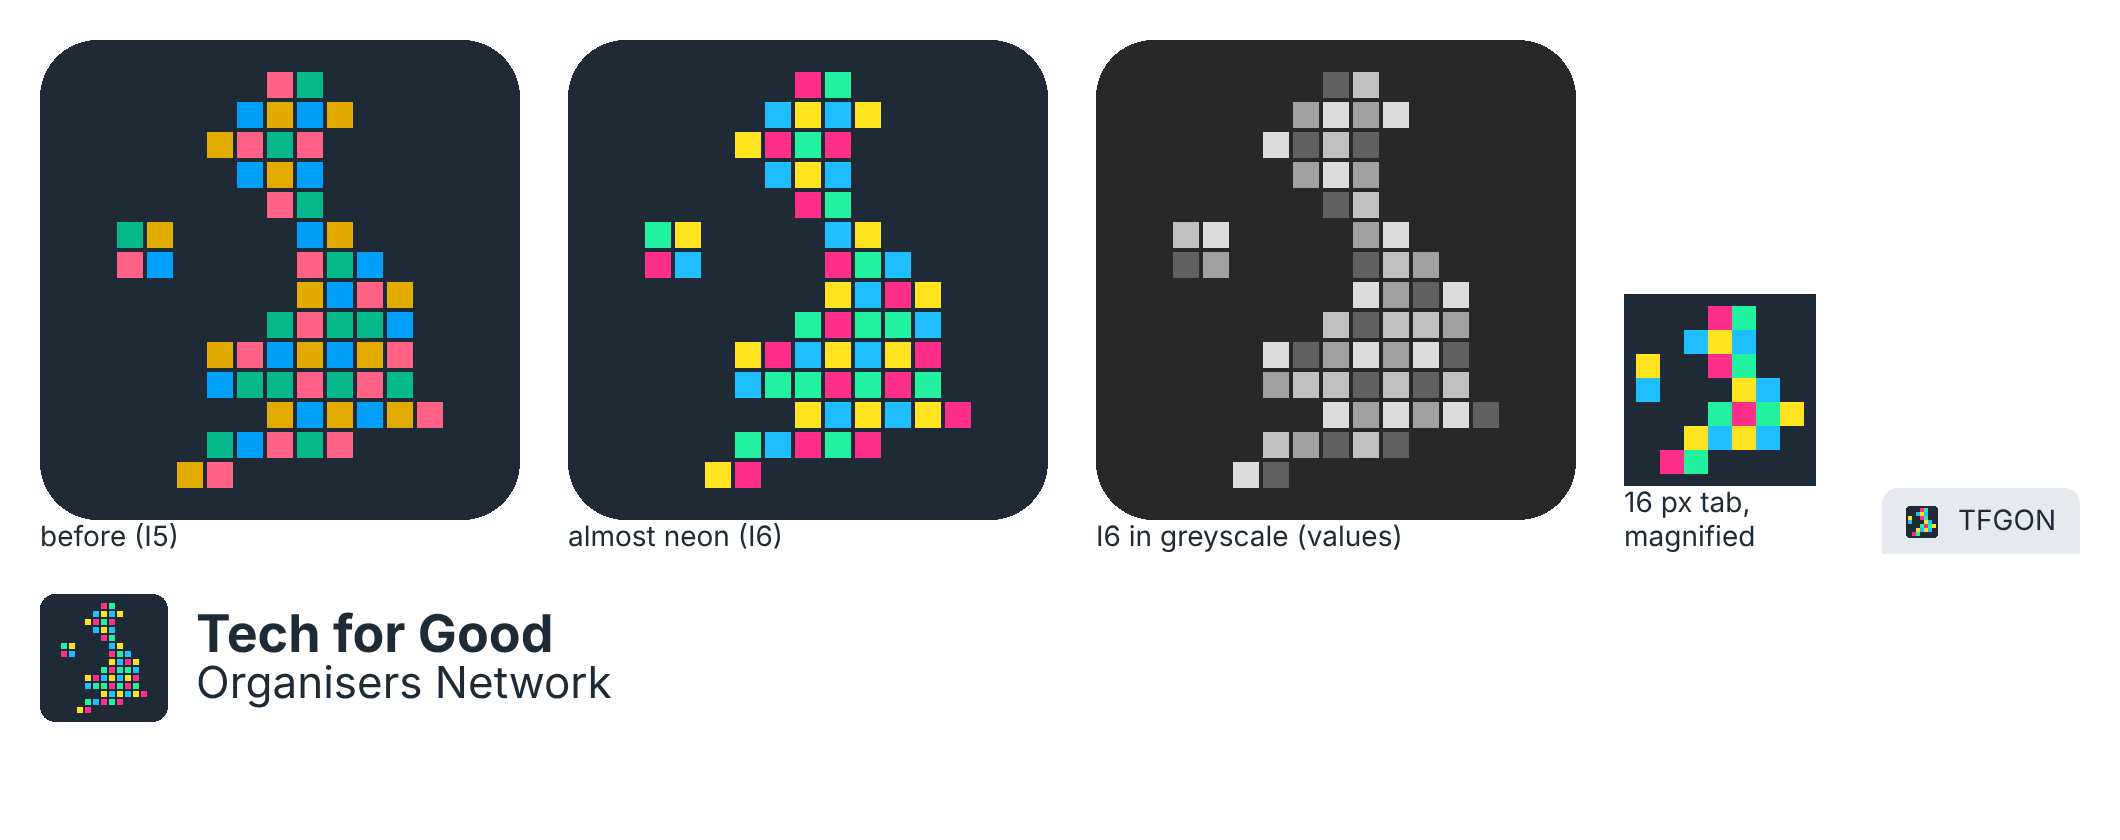
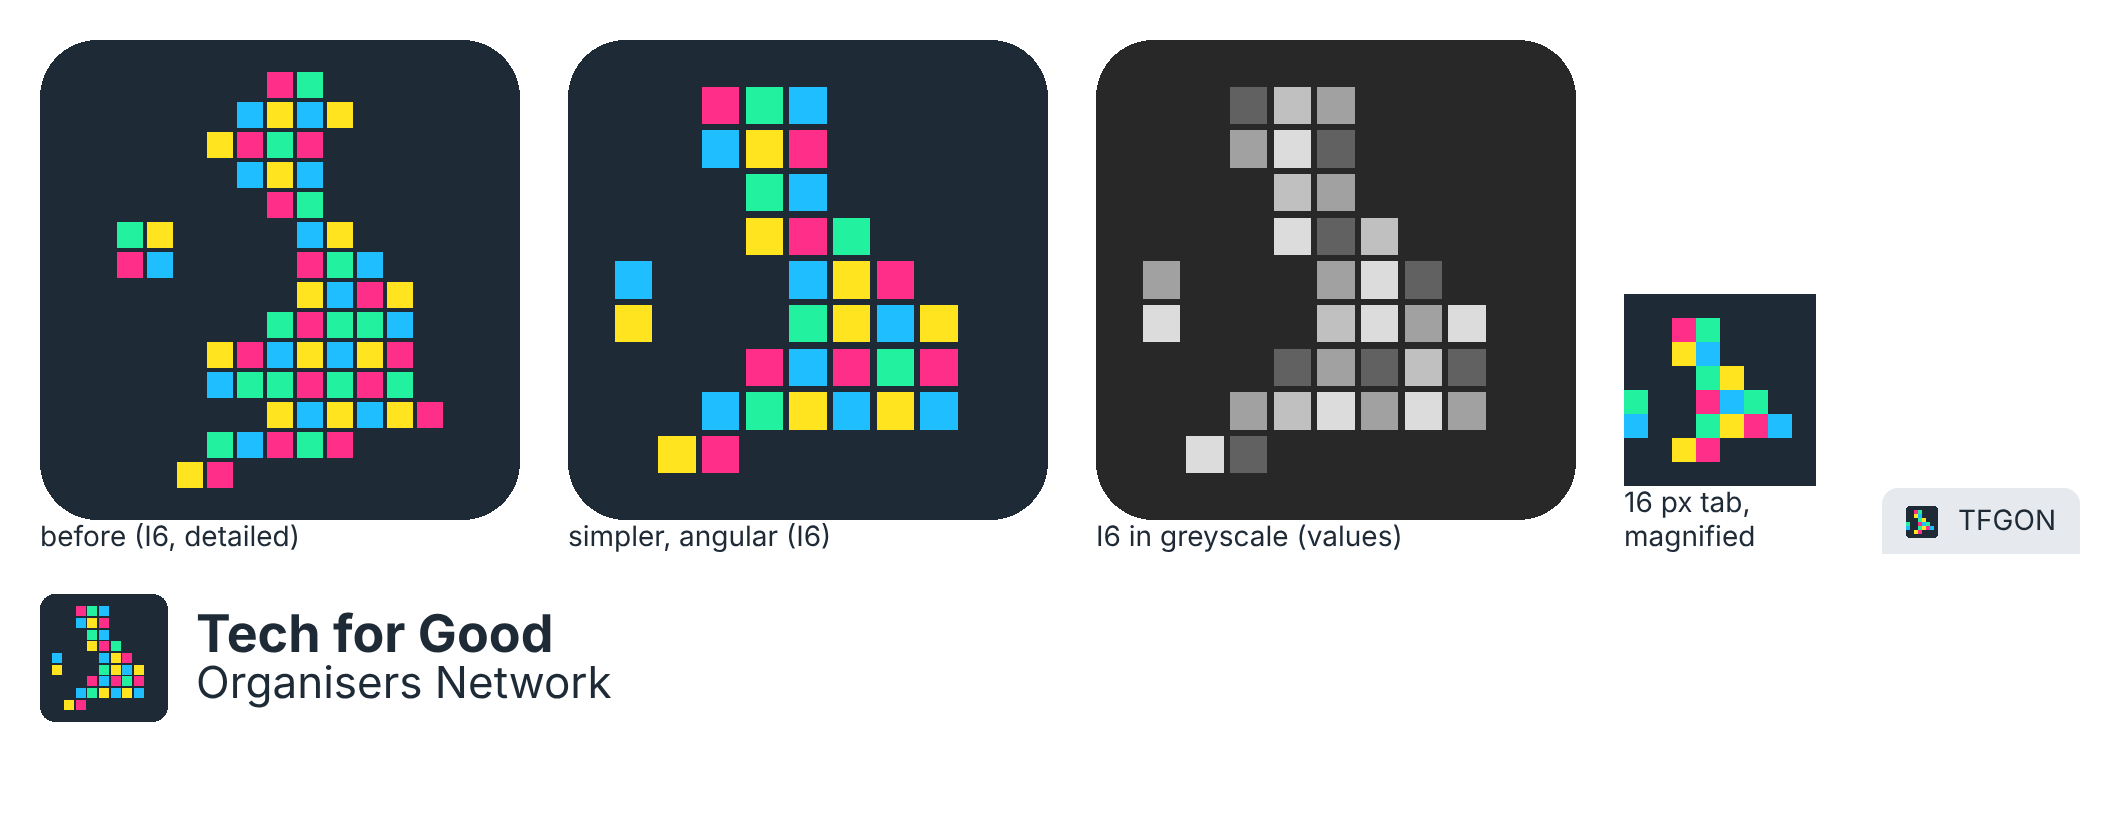
Design drafts: I6 simplified to an angular UK in bigger squares; Northern Ireland two squares clear at 16 px
Claude-Session: https://claude.ai/code/session_018uvzSPoLJKUx3o3mPuMkSG

diff --git a/design/index.html b/design/index.html
@@ -249,7 +249,7 @@ const concepts2 = [
     unlike: "Square pixels, a hand-drawn caricature with no centre or symmetry, on a dark tile.",
     weak: "Its colours are lighter, fully saturated pink and blue and a deeper, golden yellow than the agreed palette (L* 63 to 73 instead of 49 to 83, as saturated as sRGB allows at that lightness). Equal lightness also makes pink and green harder to tell apart for red-green colour blindness (7.5, down from 17.4), which is fine here because no square carries meaning." },
   { id: "i6", name: "Pixel caricature, almost neon", full: "i6-pixel-neon.svg", small: "i6-pixel-neon-small.svg", dark: "i6-pixel-neon.svg",
-    says: "The same cartoon UK, lit up in near-neon pink, yellow, green and blue on the dark tile: energetic, digital, unmistakably tech.",
+    says: "A simplified, angular UK (a block for Scotland, a stepped triangle for England, a straight tail for Cornwall, a bar for Northern Ireland) in big squares, lit up in near-neon colours on the dark tile: energetic, digital, unmistakably tech.",
     unlike: "Square pixels, a hand-drawn caricature with no centre or symmetry, and electric colours on dark rather than flat primaries on white.",
     weak: "The neon colours are a third palette beside the agreed one and I5's. Neon can't keep the values equal: pink is darker than yellow and green (L* 57 to 90), so in greyscale the squares speckle. It can feel loud next to calm body text." },
 ];

diff --git a/design/tools/pixelcaricature.py b/design/tools/pixelcaricature.py
@@ -38,6 +38,27 @@ SMALL = """
 
 def parse(s): return [list(r) for r in s.strip("\n").split("\n")]
 
+# I6's own shape (Ed, 2026-11-27: "simpler and more angular"): straight runs and clean diagonal steps.
+FULL6 = """
+..###....
+..###....
+...##....
+...###...
+#...###..
+#...####.
+...#####.
+..######.
+.##......
+"""
+SMALL6 = """
+..##....
+..##....
+...##...
+#..###..
+#..####.
+..##....
+"""
+
 # I6: "almost neon" (Ed, 2026-11-27). Brighter and fully saturated; values spread again (L* 57 to 90).
 NEON = {"pink": "#FF2E88", "yellow": "#FFE41F", "green": "#22F2A0", "blue": "#1EBEFF"}
 
@@ -72,7 +93,7 @@ if __name__ == "__main__":
     (OUT / "i5-pixel-caricature.svg").write_text(full)
     (OUT / "i5-pixel-caricature-small.svg").write_text(small)
     print("counts full", n1, "small", n2)
-    full6, _ = svg(parse(FULL), 1, 16, 0.14, 1, 5, "pixel caricature, neon, on a dark tile", colours=NEON)
-    small6, _ = svg(parse(SMALL), 2, 16, 0, 1, 5, "pixel caricature, neon, on a dark tile, small", colours=NEON)
+    full6, _ = svg(parse(FULL6), 1, 11, 0.14, 1, 5, "pixel caricature, neon, on a dark tile", colours=NEON)
+    small6, _ = svg(parse(SMALL6), 2, 16, 0, 1, 5, "pixel caricature, neon, on a dark tile, small", colours=NEON)
     (OUT / "i6-pixel-neon.svg").write_text(full6)
     (OUT / "i6-pixel-neon-small.svg").write_text(small6)
